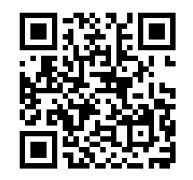
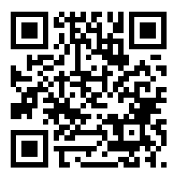
fix(distributor.mobile): update installation link and QR code for version 4.71
- Replace Google Drive installation link with updated file ID
  (1XGcf_tlVO8VG7_eEvkDCqovWjndwm57B → 1aZs4H0p2jRJBeW4Pvo9Xgs8mGJnsoj_4)
- Regenerate QR code image pointing to the new installation link
  (size reduced from 5667 to 5488 bytes)

diff --git a/_posts/2026-06-14-distributor-mobile-update-notes-471.md b/_posts/2026-06-14-distributor-mobile-update-notes-471.md
@@ -15,7 +15,7 @@ render_with_liquid: true
 
 ![QR](/assets/img/distributor.mobile-4.71.png)
 
-[Ссылка на установку](https://drive.google.com/file/d/1XGcf_tlVO8VG7_eEvkDCqovWjndwm57B/view?usp=sharing)
+[Ссылка на установку](https://drive.google.com/file/d/1aZs4H0p2jRJBeW4Pvo9Xgs8mGJnsoj_4/view?usp=sharing)
 
 ### Обновление приложения
 
